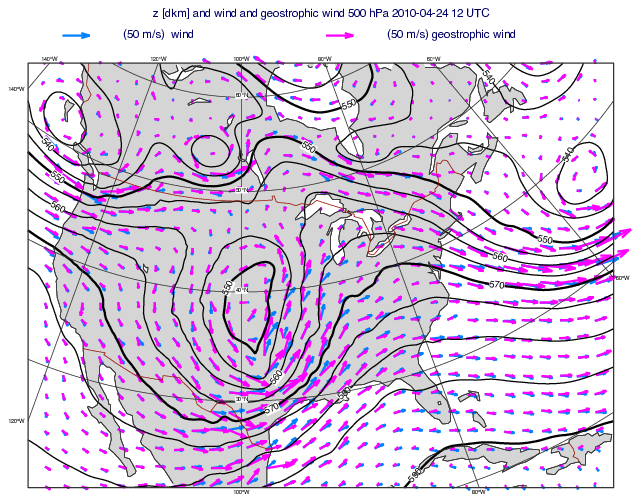
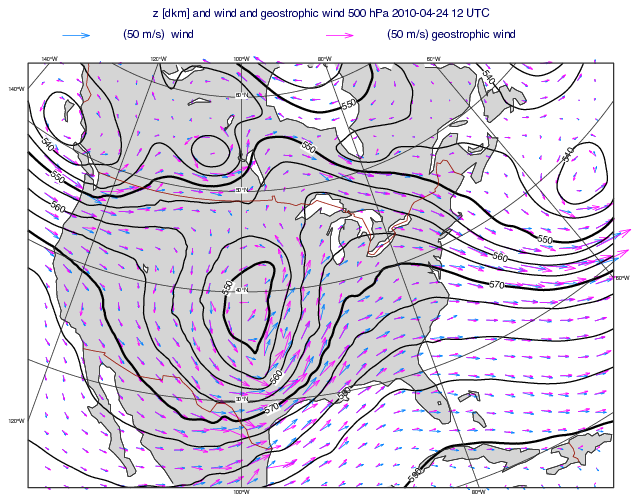
Update geostrophic_wind_overlay gallery example

diff --git a/docs/gallery/geostrophic_wind_overlay.py b/docs/gallery/geostrophic_wind_overlay.py
@@ -69,7 +69,7 @@ gw = mv.geostrophic_wind(z)
 w_style = mv.mwind(
     wind_thinning_factor=8,
     wind_arrow_colour="greenish_blue",
-    wind_arrow_thickness=2,
+    wind_arrow_thickness=1,
     wind_arrow_unit_velocity=50,
     legend="on",
     wind_legend_text="(50 m/s)  wind",
@@ -78,7 +78,7 @@ w_style = mv.mwind(
 gw_style = mv.mwind(
     wind_thinning_factor=8,
     wind_arrow_colour="magenta",
-    wind_arrow_thickness=2,
+    wind_arrow_thickness=1,
     wind_arrow_unit_velocity=50,
     legend="on",
     wind_legend_text="(50 m/s) geostrophic wind",
